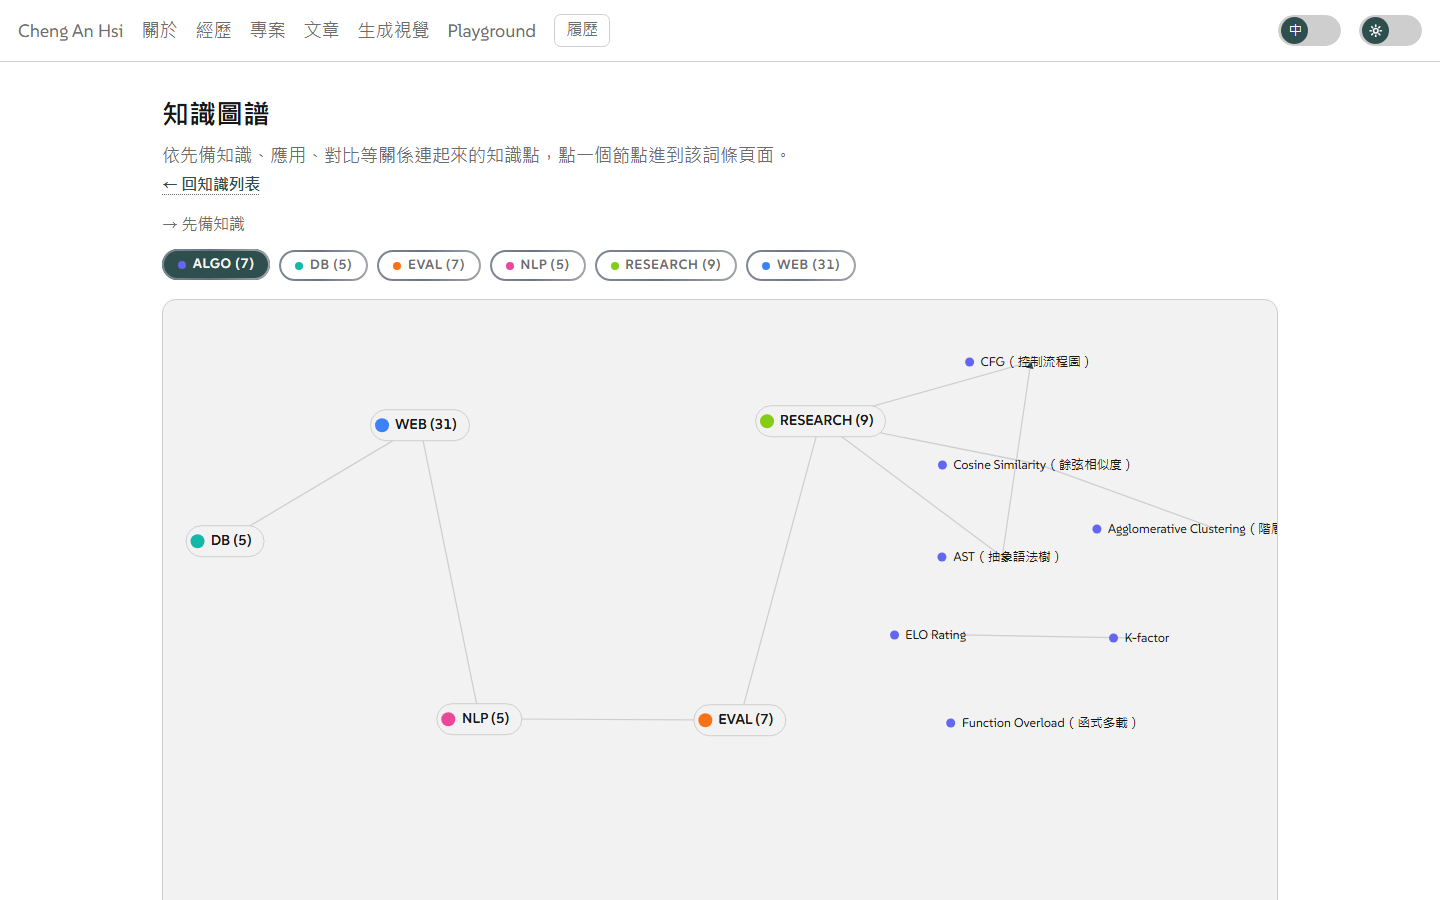
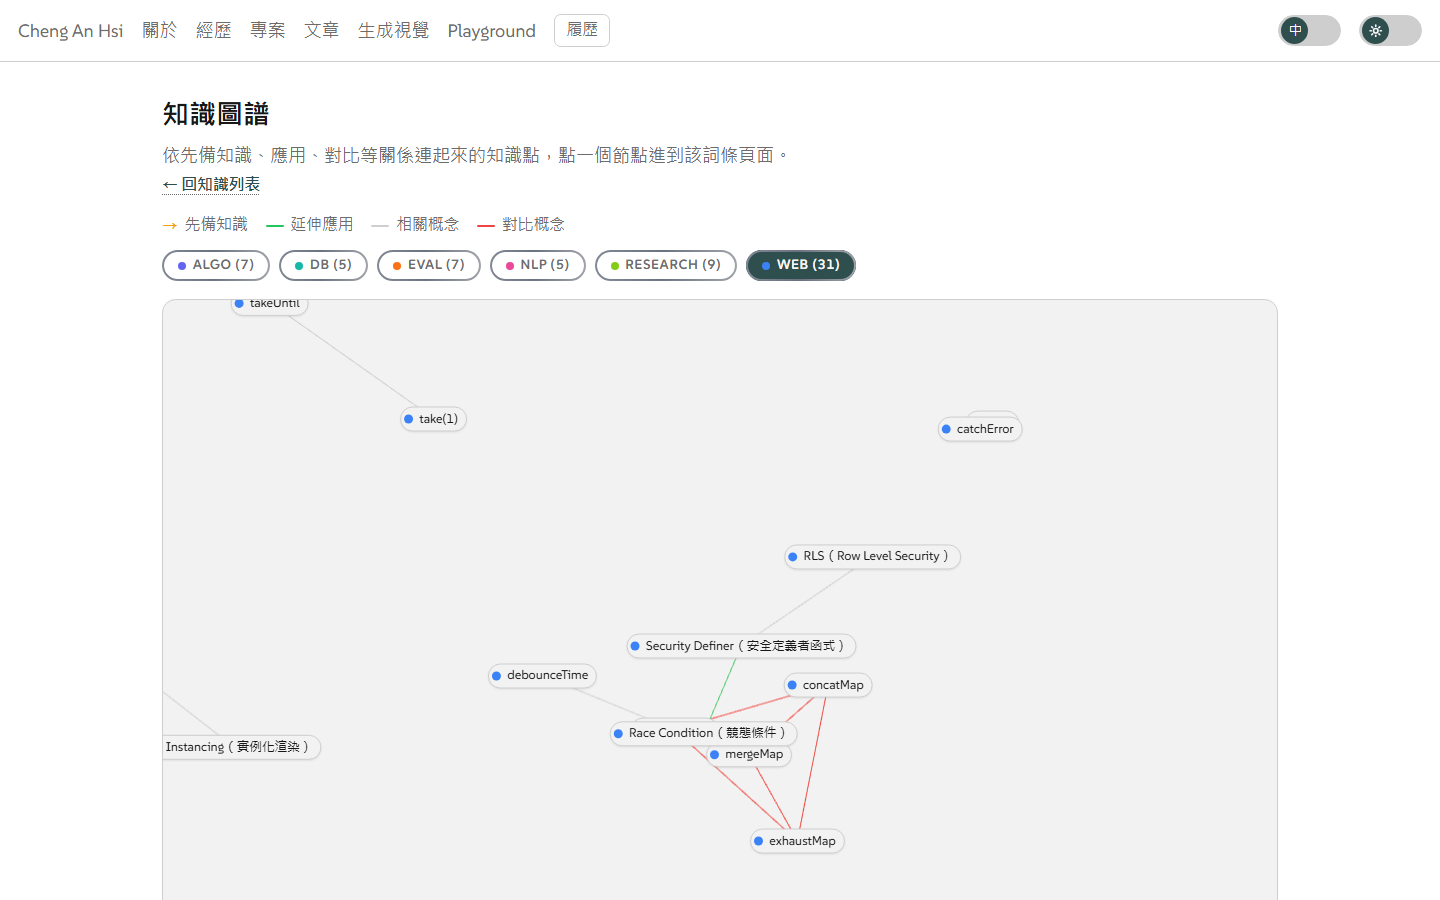
feat: Enhance Knowledge Graph with 3D visualization and improved relation types

diff --git a/src/pages/knowledge/KnowledgeGraph.tsx b/src/pages/knowledge/KnowledgeGraph.tsx
@@ -9,6 +9,7 @@ import TextLink from "../../components/TextLink";
 import { usePublishedKnowledgeNodes } from "../../lib/knowledge";
 import { useTranslation } from "../../i18n/useTranslation";
 import { useDocumentTitle } from "../../hooks/useDocumentTitle";
+import type { KnowledgeRelationType } from "../../types/content";
 import styles from "./KnowledgeGraph.module.scss";
 
 const CATEGORY_PREFIX = "cat:";
@@ -34,6 +35,33 @@ const CATEGORY_COLORS: Record<string, string> = {
 };
 const FALLBACK_COLOR = "#9ca3af";
 
+// 「相關概念」是最普通、數量最多的關係，維持中性色（跟主題走），
+// 另外三種比較少見、有特定語意的關係才給固定的強調色。
+const RELATION_ACCENT_COLORS: Partial<Record<KnowledgeRelationType, string>> = {
+  prerequisite: "#f59e0b",
+  applies_to: "#22c55e",
+  contrasts_with: "#ef4444",
+};
+// 跟 KnowledgeDetail.tsx 的 relationOrder 保持一致的顯示順序。
+const RELATION_LEGEND_ORDER: KnowledgeRelationType[] = [
+  "prerequisite",
+  "applies_to",
+  "related",
+  "contrasts_with",
+];
+// 分類收合時，同一對 hub 之間可能同時存在好幾種底層關係，只畫得出一條邊，
+// 排序在前的優先顯示（先備知識最值得看到，相關概念最普通、優先度最低）。
+const RELATION_PRIORITY: KnowledgeRelationType[] = [
+  "prerequisite",
+  "contrasts_with",
+  "applies_to",
+  "related",
+];
+
+function relationColor(type: KnowledgeRelationType, neutralColor: string): string {
+  return RELATION_ACCENT_COLORS[type] ?? neutralColor;
+}
+
 // 圖上實際畫出來的節點：分類還沒展開時是一顆代表整個分類的 hub，
 // 展開後 hub 換成該分類底下每個知識點各自一顆節點。
 interface VisualNode {
@@ -47,7 +75,7 @@ interface VisualNode {
 interface GraphEdge {
   a: string;
   b: string;
-  directed: boolean;
+  type: KnowledgeRelationType;
 }
 
 interface Point3 {
@@ -57,6 +85,7 @@ interface Point3 {
 }
 
 type NodeColorStyle = CSSProperties & { "--node-color": string };
+type EdgeColorStyle = CSSProperties & { "--edge-color": string };
 
 function idFor(category: string, slug: string, expanded: Set<string>): string {
   return expanded.has(category) ? slug : CATEGORY_PREFIX + category;
@@ -341,7 +370,7 @@ function EdgeLine({ edge, positions, isActive, isDimmed, color, activeColor }: E
   const a = positions[edge.a];
   const b = positions[edge.b];
   if (!a || !b) return null;
-  const lineColor = isActive ? activeColor : color;
+  const lineColor = isActive ? activeColor : relationColor(edge.type, color);
   const opacity = isDimmed ? 0.15 : 1;
 
   return (
@@ -356,7 +385,9 @@ function EdgeLine({ edge, positions, isActive, isDimmed, color, activeColor }: E
         transparent
         opacity={opacity}
       />
-      {edge.directed && <ArrowHead from={a} to={b} color={lineColor} opacity={opacity} />}
+      {edge.type === "prerequisite" && (
+        <ArrowHead from={a} to={b} color={lineColor} opacity={opacity} />
+      )}
     </>
   );
 }
@@ -399,9 +430,9 @@ export default function KnowledgeGraph() {
         if (seen.has(key)) return;
         if (rel.type === "prerequisite") {
           // rel.slug 是 node.slug 的先備知識，箭頭畫成「先備 → 這個節點」
-          seen.set(key, { a: rel.slug, b: node.slug, directed: true });
+          seen.set(key, { a: rel.slug, b: node.slug, type: "prerequisite" });
         } else {
-          seen.set(key, { a: node.slug, b: rel.slug, directed: false });
+          seen.set(key, { a: node.slug, b: rel.slug, type: rel.type });
         }
       });
     });
@@ -440,7 +471,8 @@ export default function KnowledgeGraph() {
   }, [allNodes, expandedCategories]);
 
   // 分類還收合著的邊,兩端都會收斂成同一顆分類 hub，這種「分類內部關聯」先不畫，
-  // 展開該分類後兩端變成各自獨立的節點才會出現。
+  // 展開該分類後兩端變成各自獨立的節點才會出現。多個成員對之間的關係可能種類不同，
+  // 收斂到同一對 hub 時只留優先度最高的那種（先備 > 對比 > 應用 > 相關）代表整條邊。
   const visibleEdges: GraphEdge[] = useMemo(() => {
     const grouped = new Map<string, GraphEdge>();
     rawEdges.forEach((e) => {
@@ -449,8 +481,9 @@ export default function KnowledgeGraph() {
       if (va === vb) return;
       const key = [va, vb].sort().join("|");
       const existing = grouped.get(key);
-      if (existing && (existing.directed || !e.directed)) return;
-      grouped.set(key, { a: va, b: vb, directed: e.directed });
+      if (existing && RELATION_PRIORITY.indexOf(existing.type) <= RELATION_PRIORITY.indexOf(e.type))
+        return;
+      grouped.set(key, { a: va, b: vb, type: e.type });
     });
     return Array.from(grouped.values());
   }, [rawEdges, categoryBySlug, expandedCategories]);
@@ -498,9 +531,27 @@ export default function KnowledgeGraph() {
       </p>
 
       <div className="hidden sm:block">
-        <p className="mt-4 text-sm text-[var(--color-text-muted)]">
-          → {t.knowledge.relationType.prerequisite}
-        </p>
+        <div className="mt-4 flex flex-wrap gap-x-4 gap-y-1 text-sm text-[var(--color-text-muted)]">
+          {RELATION_LEGEND_ORDER.map((type) => (
+            <span key={type} className="inline-flex items-center gap-1.5">
+              {type === "prerequisite" ? (
+                <span
+                  className={styles.legendArrow}
+                  style={{ "--edge-color": relationColor(type, edgeColor) } as EdgeColorStyle}
+                  aria-hidden="true"
+                >
+                  →
+                </span>
+              ) : (
+                <span
+                  className={styles.legendLine}
+                  style={{ "--edge-color": relationColor(type, edgeColor) } as EdgeColorStyle}
+                />
+              )}
+              {t.knowledge.relationType[type]}
+            </span>
+          ))}
+        </div>
 
         <div className="mt-3 flex flex-wrap gap-2">
           {categoriesWithCount.map(({ category, count }) => (

diff --git a/src/i18n/strings.ts b/src/i18n/strings.ts
@@ -511,7 +511,7 @@ export const strings: Record<"zh" | "en", Strings> = {
       entryPointHint: "想更深入了解背後概念？逛逛 Knowledge →",
       relatedKnowledge: "相關知識",
       tableOfContents: "詞條目錄",
-      graphViewLabel: "圖譜檢視（實驗中）→",
+      graphViewLabel: "圖譜檢視 →",
       graphViewTitle: "知識圖譜",
       graphViewSubtitle: "依先備知識、應用、對比等關係連起來的知識點，點一個節點進到該詞條頁面。",
       graphViewMobileNotice: "這個檢視畫面比較寬，手機螢幕太窄不適合操作，請改用平板或電腦開啟。",
@@ -813,7 +813,7 @@ export const strings: Record<"zh" | "en", Strings> = {
         "Want to dig into the concepts behind this? Browse Knowledge →",
       relatedKnowledge: "Related Knowledge",
       tableOfContents: "Table of Contents",
-      graphViewLabel: "Graph view (experimental) →",
+      graphViewLabel: "Graph view →",
       graphViewTitle: "Knowledge Graph",
       graphViewSubtitle:
         "Knowledge nodes connected by prerequisite, application, and contrast relationships. Click a node to open its page.",

diff --git a/src/pages/knowledge/KnowledgeGraph.module.scss b/src/pages/knowledge/KnowledgeGraph.module.scss
@@ -84,3 +84,17 @@
   border-radius: 9999px;
   background-color: var(--node-color);
 }
+
+.legendLine {
+  display: inline-block;
+  width: 18px;
+  height: 2px;
+  border-radius: 1px;
+  background-color: var(--edge-color);
+}
+
+.legendArrow {
+  color: var(--edge-color);
+  font-weight: 700;
+  line-height: 1;
+}

diff --git a/content/projects/en/personal-website.md b/content/projects/en/personal-website.md
@@ -108,13 +108,13 @@ Technical terms that appear in articles and long-form project write-ups (<span d
   <figcaption style="text-align: center;">Knowledge term detail page: general definition, context-aware application, and long-form content</figcaption>
 </figure>
 
-### Knowledge Graph `/knowledge/graph` (experimental)
+### Knowledge Graph `/knowledge/graph`
 
-Renders the prerequisite/related/applies_to/contrasts_with relationships between glossary terms as a force-directed graph. By default only category hubs are shown; clicking one expands it into individual terms, several categories can be expanded at once, and nodes can be manually dragged into place. Panning and dragging don't work well on a narrow phone screen, so below the `sm` breakpoint it shows a text hint pointing users to a tablet or desktop instead.
+Renders the prerequisite/related/applies_to/contrasts_with relationships between glossary terms as a 3D force-directed graph (React Three Fiber + drei), color-coded by relation type with an extra arrow marking direction for prerequisites. By default only category hubs are shown; clicking one expands it into individual terms, and several categories can be expanded at once. Drag to rotate the camera and scroll to zoom. These gestures don't work well on a narrow phone screen, so below the `sm` breakpoint it shows a text hint pointing users to a tablet or desktop instead.
 
 <figure>
   <img src="/images/projects/personal-website/knowledge-graph.png" alt="The Knowledge Graph page, with one category expanded showing individual term nodes and edges" style="display: block; margin: 0 auto; max-width: 100%;" />
-  <figcaption style="text-align: center;">Knowledge Graph: force-directed layout with a category expanded</figcaption>
+  <figcaption style="text-align: center;">Knowledge Graph: 3D force-directed layout with a category expanded</figcaption>
 </figure>
 
 ### Art Gallery `/gallery`
@@ -164,7 +164,7 @@ There are four main technical contributions:
 - **p5.js instance-mode migration**: migrating p5.js entirely from OpenProcessing's global mode to instance mode, letting 30 generative-art pieces coexist in the same SPA without polluting each other's global state, so the whole site never has more than one live canvas at a time.
 - **Invite-code race condition**: the friend-creation system uses Postgres <span data-term="security-definer">Security Definer Function</span> RPCs combined with `for update` row locking to resolve the invite-code <span data-term="race-condition">Race Condition</span> without any account system, while letting a single invite code serve double duty as both a one-time redemption token and a long-term editing credential.
 - **A unified painting data model**: 2D pixel art and 3D voxel painting share the same "sparse coordinate array" data model and undo/redo architecture, keeping data volume and content risk at the same level across both creation types, so the database schema never needed to change to accommodate a new creation type.
-- **Context-aware glossary**: when a term is shared across multiple projects/articles, its "how it's used" text now picks the passage matching the current context instead of merging everything into one sentence; some terms also carry a full write-up, and there's a new experimental force-directed view of term relationships (`/knowledge/graph`).
+- **Context-aware glossary**: when a term is shared across multiple projects/articles, its "how it's used" text now picks the passage matching the current context instead of merging everything into one sentence; some terms also carry a full write-up, and there's a new 3D force-directed view of term relationships, color-coded by relation type (`/knowledge/graph`).
 
 What's currently finished covers all the static content sections (Home, About, Experience, Articles, Projects, Glossary, Gallery, Playground, Dreams, Mini Works); the glossary feature is wired into both articles and project write-ups, with context-aware descriptions, long-form entries for some terms, and the graph view, all aimed at lowering the barrier to reading research-oriented project content.
 
@@ -173,5 +173,5 @@ The full friend-creation flow (invite-code redemption, 2D/3D editors, re-editing
 What's next:
 
 1. Keep refining the visual design
-2. Knowledge graph: color-code edges by relationship type (prerequisite/related/applies_to/contrasts_with), and add a way to browse it on mobile
+2. Knowledge graph: add a way to browse it on mobile
 3. Reconnect the friend-creation feature to a main navigation entry point
